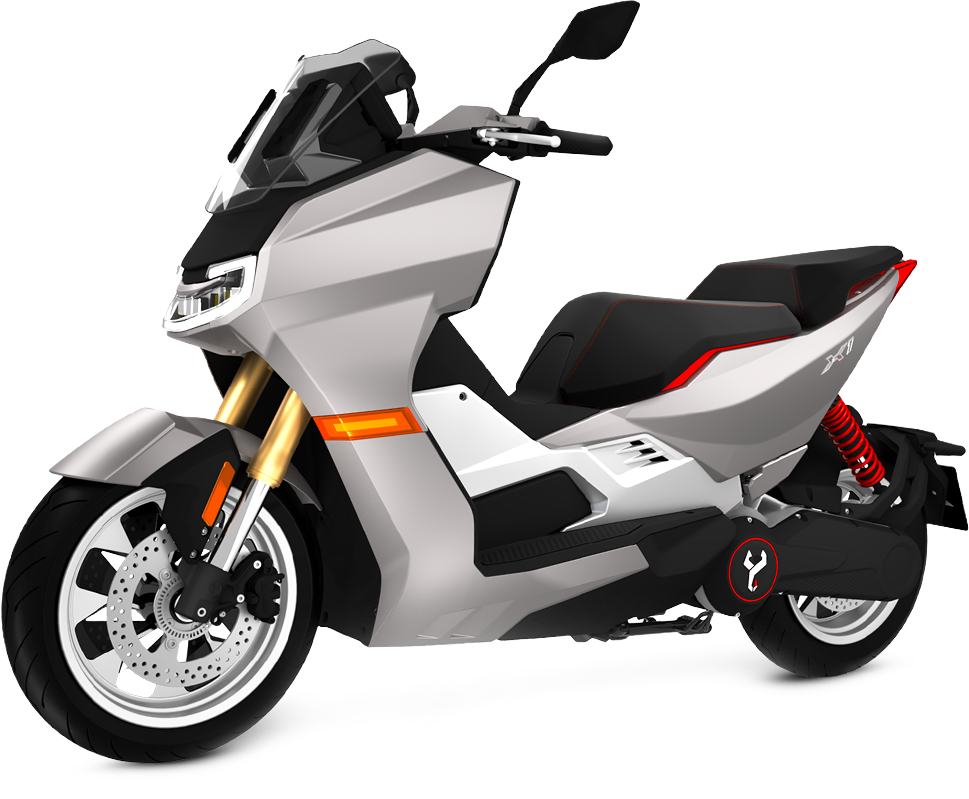
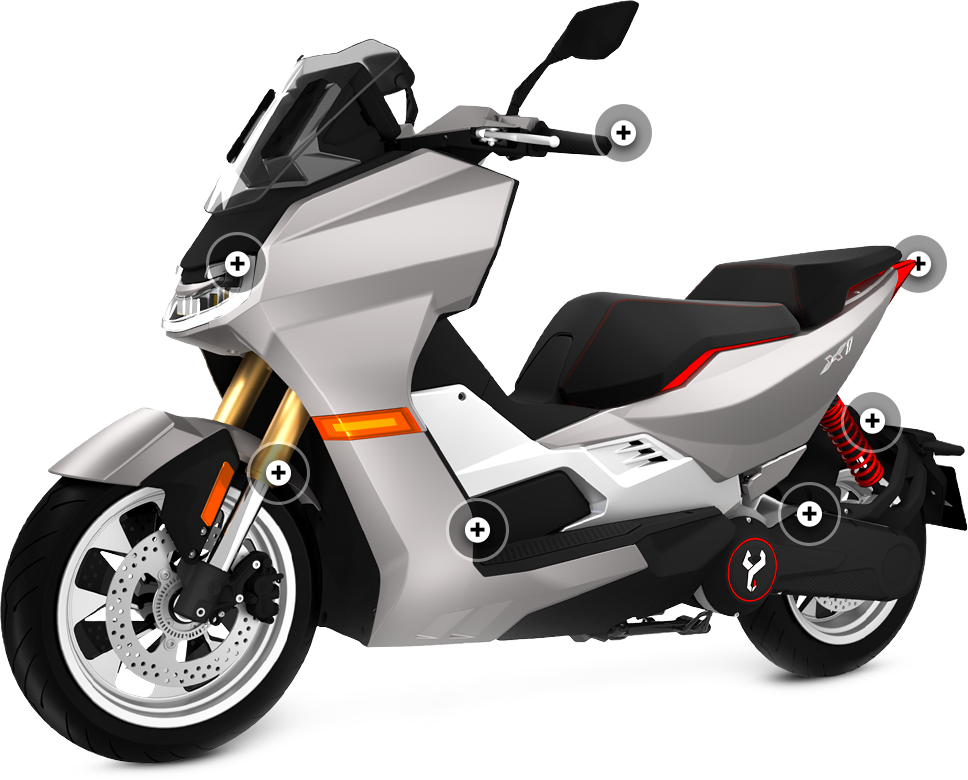
mobile-ignition leftside

diff --git a/organisms/mobile-ignition.html b/organisms/mobile-ignition.html
@@ -1,0 +1,111 @@
+<!DOCTYPE html>
+<html lang="en">
+  <head>
+    <meta charset="UTF-8" />
+    <meta http-equiv="X-UA-Compatible" content="IE=edge" />
+    <meta name="viewport" content="width=device-width, initial-scale=1.0" />
+    <!-- styles -->
+    <link rel="stylesheet" href="../assets/css/aos.css">
+    <link rel="stylesheet" href="../assets/css/slick.css">
+    <link rel="stylesheet" href="../assets/css/slick-theme.css">
+    <link rel="stylesheet" href="../assets/css/bootstrap.min.css">
+    <link rel="stylesheet" href="../assets/css/style.css" />
+    <!-- styles -->
+    <title>Document</title>
+  </head>
+  <body>
+    <!-- Our Starts start -->
+    <div class="spo-mob-ign" style="background-image: url('../assets/images/mobile-ignition-bg.png');">
+      <div class="content-wrapper">
+        <div class="spo-mob-ign__outer">
+          <div class="spo-mob-ign__left">
+            <div class="spo-mob-ign__head">
+                <h3 class="spo-moduletitle">
+                    SPECIFICATIONS
+                </h3>
+                <p class="spo-modulesub">Experience seamless connectivity from phone-to-bike with our app.</p>
+                <p class="spo-modulesub">Once paired, there won’t be a need for a key. The intuitive app can unlock and turn on the bike for you and grant access to all other smart features.</p>
+            </div>
+            <div class="spo-mob-ign__itemwrap">
+                <div class="spo-mob-ign__features">
+                    <div class="spo-mob-ign__featureimg">
+                        <svg xmlns="http://www.w3.org/2000/svg" xmlns:xlink="http://www.w3.org/1999/xlink" width="23" height="31" viewBox="0 0 23 31">
[1 lines of base64/hex data omitted]
+                          </svg>
+                    </div>
+                    <p>Lock/Unlock</p>
+                </div>
+                <div class="spo-mob-ign__features">
+                    <div class="spo-mob-ign__featureimg">
+                        <svg xmlns="http://www.w3.org/2000/svg" xmlns:xlink="http://www.w3.org/1999/xlink" width="23" height="31" viewBox="0 0 23 31">
[1 lines of base64/hex data omitted]
+                          </svg>
+                    </div>
+                    <p>Bike Locator</p>
+                </div>
+                <div class="spo-mob-ign__features">
+                    <div class="spo-mob-ign__featureimg">
+                        <svg xmlns="http://www.w3.org/2000/svg" xmlns:xlink="http://www.w3.org/1999/xlink" width="23" height="31" viewBox="0 0 23 31">
[1 lines of base64/hex data omitted]
+                          </svg>
+                    </div>
+                    <p>Battery Status & Estimated Range</p>
+                </div>
+                <div class="spo-mob-ign__features">
+                    <div class="spo-mob-ign__featureimg">
+                        <svg xmlns="http://www.w3.org/2000/svg" xmlns:xlink="http://www.w3.org/1999/xlink" width="23" height="31" viewBox="0 0 23 31">
[1 lines of base64/hex data omitted]
+                          </svg>
+                    </div>
+                    <p>Anti-Theft Alert</p>
+                </div>
+                <div class="spo-mob-ign__features">
+                    <div class="spo-mob-ign__featureimg">
+                        <svg xmlns="http://www.w3.org/2000/svg" xmlns:xlink="http://www.w3.org/1999/xlink" width="23" height="31" viewBox="0 0 23 31">
[1 lines of base64/hex data omitted]
+                          </svg>
+                    </div>
+                    <p>Charging Station Locator</p>
+                </div>
+                <div class="spo-mob-ign__features">
+                    <div class="spo-mob-ign__featureimg">
+                        <svg xmlns="http://www.w3.org/2000/svg" xmlns:xlink="http://www.w3.org/1999/xlink" width="23" height="31" viewBox="0 0 23 31">
[1 lines of base64/hex data omitted]
+                          </svg>
+                    </div>
+                    <p>Incident Detection</p>
+                </div>
+                <div class="spo-mob-ign__features">
+                    <div class="spo-mob-ign__featureimg">
+                        <svg xmlns="http://www.w3.org/2000/svg" xmlns:xlink="http://www.w3.org/1999/xlink" width="23" height="31" viewBox="0 0 23 31">
[1 lines of base64/hex data omitted]
+                          </svg>
+                    </div>
+                    <p>Trip Summary</p>
+                </div>
+                <div class="spo-mob-ign__features">
+                    <div class="spo-mob-ign__featureimg">
+                        <svg xmlns="http://www.w3.org/2000/svg" xmlns:xlink="http://www.w3.org/1999/xlink" width="23" height="31" viewBox="0 0 23 31">
[1 lines of base64/hex data omitted]
+                          </svg>
+                    </div>
+                    <p>Smart Navigation</p>
+                </div>
+            </div>
+          </div>
+          <div class="spo-mob-ign__right">
+          </div>
+        </div>
+      </div>
+    </div>
+    <!-- Our Starts end -->
+
+    <!-- scripts -->
+    <script src="../assets/js/jquery.slim.min.js"></script>
+    <script src="../assets/js/aos.js"></script>
+    <script src="../assets/js/slick.min.js"></script>
+    <script src="../assets/js/bootstrap.bundle.min.js"></script>
+    <script src="../assets/js/script.js"></script>
+    <!-- scripts -->
+  </body>
+</html>

diff --git a/assets/scss/organisms/_mobile-ignition.scss b/assets/scss/organisms/_mobile-ignition.scss
@@ -1,0 +1,50 @@
+.spo-mob-ign {
+    padding: $spacer-5 0;
+
+    &__outer {
+        display: flex;
+        align-items: flex-start;
+    }
+
+    &__left {
+        width: 50%;
+    }
+
+    &__head {
+        margin-bottom: $spacer-4;
+    }
+
+    &__features {
+        margin-bottom: $spacer-4;
+        width: 50%;
+        display: flex;
+        align-items: center;
+
+        p {
+            color: $color-white;
+            line-height: 0;
+        }
+    }
+
+    &__featureimg {
+        display: flex;
+        align-items: center;
+        justify-content: center;
+        width: 30px;
+        height: 30px;
+        border: 1px solid $color-white;
+        border-radius: 50%;
+        padding: $spacer-2;
+        box-shadow: $color-red 0px 5px 15px;
+        margin-right: $spacer-3;
+
+        svg {
+            width: 100%;
+        }
+    }
+
+    &__itemwrap {
+        display: flex;
+        flex-wrap: wrap;
+    }
+}

diff --git a/assets/scss/organisms/_specification.scss b/assets/scss/organisms/_specification.scss
@@ -29,7 +29,7 @@
     &__featurehead {
         font-size: 20px;
         font-weight: $font-semi-bold;
-        margin-bottom: $spacer-2;
+        margin-bottom: $spacer-1;
         color: $color-grey2;
     }
 
@@ -52,5 +52,25 @@
         font-size: 12px;
         color: $color-white;
         text-align: center;
+    }
+}
+
+@include mobile {
+    .spo-spec {
+        padding: $spacer-5 0;
+
+        &__outer {
+            flex-direction: column-reverse;
+        }
+
+        &__left {
+            text-align: center;
+            margin-top: $spacer-5;
+            width: 100%;
+        }
+
+        &__right {
+            width: 100%;
+        }
     }
 }

diff --git a/assets/scss/style.scss b/assets/scss/style.scss
@@ -15,4 +15,5 @@
 // organisms
 @import "./organisms/our-story";
 @import "./organisms/specification";
+@import "./organisms/mobile-ignition";
 // pages
